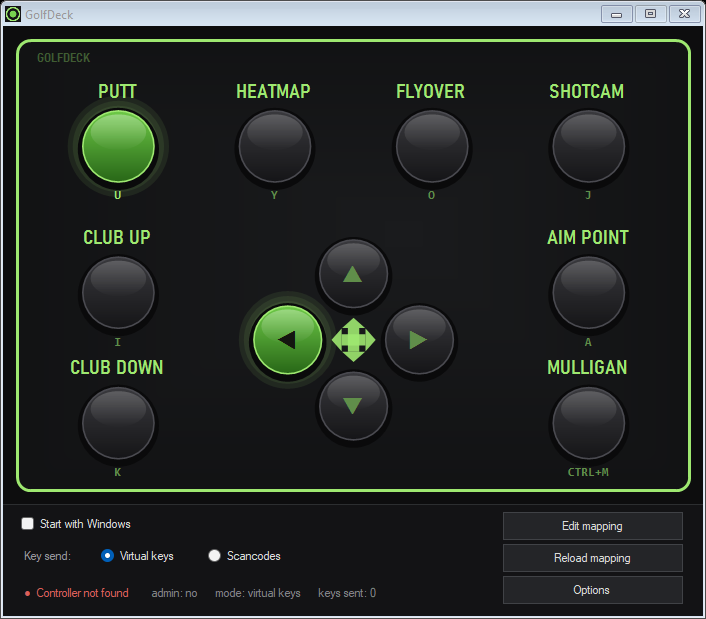
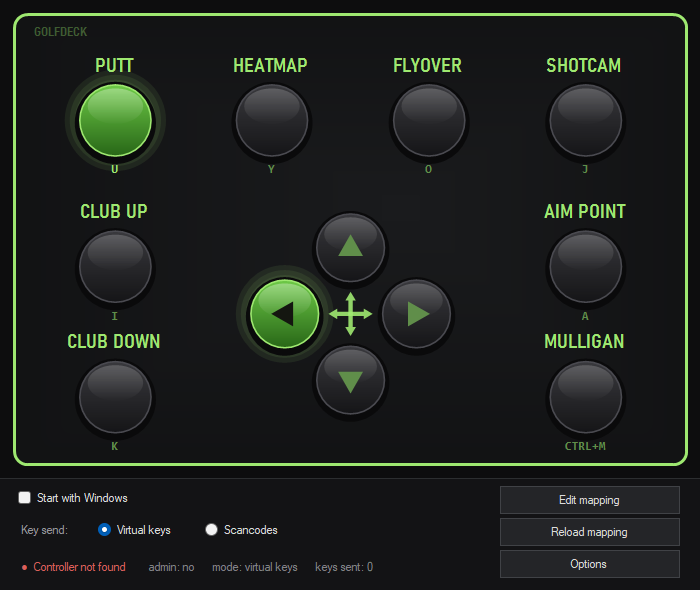
Ship bare exe releases, vector arrows and cross, chrome-less screenshots, SETUP.txt in repo

diff --git a/Program.cs b/Program.cs
@@ -600,9 +600,24 @@ LS_Right = Right | | hold
             var info = new UpdateInfo();
             info.Tag = JsonString(json, "tag_name");
             info.Body = JsonString(json, "body");
-            info.ZipUrl = JsonString(json, "browser_download_url");
+            info.ZipUrl = FindAssetUrl(json, "GolfDeck.exe");
+            if (info.ZipUrl == null) info.ZipUrl = FindAssetUrl(json, ".zip");
             if (info.Tag == null || info.ZipUrl == null) return null;
             return info;
+        }
+
+        // pick the release asset whose download url ends with the given suffix
+        static string FindAssetUrl(string json, string suffix)
+        {
+            int pos = 0;
+            while (true)
+            {
+                int i = json.IndexOf("\"browser_download_url\"", pos, StringComparison.Ordinal);
+                if (i < 0) return null;
+                string v = JsonString(json.Substring(i), "browser_download_url");
+                if (v != null && v.EndsWith(suffix, StringComparison.OrdinalIgnoreCase)) return v;
+                pos = i + 22;
+            }
         }
 
         public static bool IsNewer(string tag, string current)
@@ -657,21 +672,33 @@ LS_Right = Right | | hold
         {
             string temp = Path.Combine(Path.GetTempPath(), "GolfDeckUpdate");
             Directory.CreateDirectory(temp);
-            string zip = Path.Combine(temp, "GolfDeck.zip");
-            using (var wc = new WebClient())
-            {
-                wc.Headers.Add("User-Agent", "GolfDeck-updater");
-                wc.DownloadFile(info.ZipUrl, zip);
-            }
-            string extract = Path.Combine(temp, "extracted");
-            if (Directory.Exists(extract)) Directory.Delete(extract, true);
-            ZipFile.ExtractToDirectory(zip, extract);
-            string[] found = Directory.GetFiles(extract, "GolfDeck.exe", SearchOption.AllDirectories);
-            if (found.Length == 0) throw new Exception("GolfDeck.exe not found in the update package.");
-
             string cur = Application.ExecutablePath;
             string staged = cur + ".new";
-            File.Copy(found[0], staged, true);
+
+            if (info.ZipUrl.EndsWith(".exe", StringComparison.OrdinalIgnoreCase))
+            {
+                // bare exe asset: download straight to the staging path
+                using (var wc = new WebClient())
+                {
+                    wc.Headers.Add("User-Agent", "GolfDeck-updater");
+                    wc.DownloadFile(info.ZipUrl, staged);
+                }
+            }
+            else
+            {
+                string zip = Path.Combine(temp, "GolfDeck.zip");
+                using (var wc = new WebClient())
+                {
+                    wc.Headers.Add("User-Agent", "GolfDeck-updater");
+                    wc.DownloadFile(info.ZipUrl, zip);
+                }
+                string extract = Path.Combine(temp, "extracted");
+                if (Directory.Exists(extract)) Directory.Delete(extract, true);
+                ZipFile.ExtractToDirectory(zip, extract);
+                string[] found = Directory.GetFiles(extract, "GolfDeck.exe", SearchOption.AllDirectories);
+                if (found.Length == 0) throw new Exception("GolfDeck.exe not found in the update package.");
+                File.Copy(found[0], staged, true);
+            }
 
             string script = Path.Combine(temp, "apply-update.cmd");
             File.WriteAllText(script,
@@ -1120,15 +1147,11 @@ LS_Right = Right | | hold
                         g.DrawEllipse(pen, rect.X - 4, rect.Y - 4, rect.Width + 8, rect.Height + 8);
                 }
 
-                // arrow glyph
+                // arrow glyph (vector triangle, crisp at any size)
                 if (s.Arrow)
                 {
                     using (var br = new SolidBrush(pressed ? Theme.PressGlyph : Theme.Glyph))
-                    using (var f = new Font("Segoe UI Symbol", rr * 0.52f, FontStyle.Bold))
-                    {
-                        var sz = g.MeasureString(s.ArrowGlyph, f);
-                        g.DrawString(s.ArrowGlyph, f, br, x - sz.Width / 2f, y - sz.Height / 2f + 1);
-                    }
+                        DrawTriangle(g, x, y, rr * 0.40f, s.ArrowGlyph, br);
                 }
 
                 // label above (from the slot: physical board truth)
@@ -1198,21 +1221,33 @@ LS_Right = Right | | hold
             }
         }
 
+        // slim 4-way cross: four lines out of center with proper arrowheads
         static void DrawCross(Graphics g, float cx, float cy, float ext, Color c)
         {
-            using (var br = new SolidBrush(c))
+            using (var pen = new Pen(c, ext * 0.20f))
+            using (var cap = new AdjustableArrowCap(2.4f, 2.0f, true))
             {
-                float w = ext * 0.26f;    // shaft half-width
-                float head = ext * 0.46f; // arrowhead length
-                float hw = ext * 0.52f;   // arrowhead half-width
-                float shaft = ext - head;
-                g.FillRectangle(br, cx - w, cy - shaft, w * 2, shaft * 2);
-                g.FillRectangle(br, cx - shaft, cy - w, shaft * 2, w * 2);
-                g.FillPolygon(br, new PointF[] { new PointF(cx, cy - ext), new PointF(cx - hw, cy - shaft), new PointF(cx + hw, cy - shaft) });
-                g.FillPolygon(br, new PointF[] { new PointF(cx, cy + ext), new PointF(cx - hw, cy + shaft), new PointF(cx + hw, cy + shaft) });
-                g.FillPolygon(br, new PointF[] { new PointF(cx - ext, cy), new PointF(cx - shaft, cy - hw), new PointF(cx - shaft, cy + hw) });
-                g.FillPolygon(br, new PointF[] { new PointF(cx + ext, cy), new PointF(cx + shaft, cy - hw), new PointF(cx + shaft, cy + hw) });
+                pen.CustomEndCap = cap;
+                pen.StartCap = LineCap.Round;
+                g.DrawLine(pen, cx, cy, cx, cy - ext);
+                g.DrawLine(pen, cx, cy, cx, cy + ext);
+                g.DrawLine(pen, cx, cy, cx - ext, cy);
+                g.DrawLine(pen, cx, cy, cx + ext, cy);
             }
+        }
+
+        // solid directional triangle for the arrow buttons
+        static void DrawTriangle(Graphics g, float cx, float cy, float s, string dir, Brush br)
+        {
+            PointF[] pts;
+            float b = s * 0.92f;   // half base width
+            float a = s;           // apex distance
+            float k = s * 0.62f;   // base distance
+            if (dir == "▲") pts = new PointF[] { new PointF(cx, cy - a), new PointF(cx - b, cy + k), new PointF(cx + b, cy + k) };
+            else if (dir == "▼") pts = new PointF[] { new PointF(cx, cy + a), new PointF(cx - b, cy - k), new PointF(cx + b, cy - k) };
+            else if (dir == "◀") pts = new PointF[] { new PointF(cx - a, cy), new PointF(cx + k, cy - b), new PointF(cx + k, cy + b) };
+            else pts = new PointF[] { new PointF(cx + a, cy), new PointF(cx - k, cy - b), new PointF(cx - k, cy + b) };
+            g.FillPolygon(br, pts);
         }
 
         static GraphicsPath Rounded(Rectangle r, int rad)
@@ -1934,10 +1969,15 @@ LS_Right = Right | | hold
                 form.Show();
                 if (press != null) form.DemoPress(press);
                 Application.DoEvents();
-                using (var bmp = new Bitmap(form.Width, form.Height))
+                using (var full = new Bitmap(form.Width, form.Height))
                 {
-                    form.DrawToBitmap(bmp, new Rectangle(0, 0, form.Width, form.Height));
-                    bmp.Save(screenshot, System.Drawing.Imaging.ImageFormat.Png);
+                    form.DrawToBitmap(full, new Rectangle(0, 0, form.Width, form.Height));
+                    // crop to the client area: no window chrome in the capture
+                    Point co = form.PointToScreen(Point.Empty);
+                    var client = new Rectangle(co.X - form.Location.X, co.Y - form.Location.Y,
+                        form.ClientSize.Width, form.ClientSize.Height);
+                    using (var crop = full.Clone(client, full.PixelFormat))
+                        crop.Save(screenshot, System.Drawing.Imaging.ImageFormat.Png);
                 }
                 GC.KeepAlive(mutex);
                 return;

diff --git a/README.md b/README.md
@@ -2,7 +2,7 @@
 
 Companion app for 3D-printed GSPro control boxes built from Xbox controller internals. Reads the box through XInput and sends the matching GSPro keyboard shortcuts. Single portable exe, no install, no dependencies beyond stock Windows 10/11.
 
-**[Download the latest release](https://github.com/SenkoeUwU/golfdeck/releases/latest/download/GolfDeck.zip)**
+**[Download GolfDeck.exe](https://github.com/SenkoeUwU/golfdeck/releases/latest/download/GolfDeck.exe)** - single file, no install.
 
 ![V1 board](docs/board-v1.png)
 
@@ -21,13 +21,12 @@ Companion app for 3D-printed GSPro control boxes built from Xbox controller inte
 
 ## Install
 
-1. Download `GolfDeck.zip` from the link above.
-2. Right-click the zip, Properties, check **Unblock**, OK. Then extract anywhere (e.g. `C:\GolfDeck`).
-3. Run `GolfDeck.exe` and pick your board layout (V1 = PUTT top-left, V2 = SCORECARD top-left).
-4. Plug in the box. Press buttons and watch them light up.
-5. Optional: tick "Start with Windows".
+1. Download `GolfDeck.exe` from the link above and put it anywhere (e.g. `C:\GolfDeck`).
+2. Run it and pick your board layout (V1 = PUTT top-left, V2 = SCORECARD top-left). A `mapping.txt` with that layout's GSPro keys is created next to the exe.
+3. Plug in the box. Press buttons and watch them light up.
+4. Optional: tick "Start with Windows".
 
-Windows SmartScreen may warn about an unknown publisher the first time. The app is unsigned; click "More info", then "Run anyway". See SETUP.txt inside the zip for the full walkthrough.
+Windows SmartScreen may warn about an unknown publisher the first time. The app is unsigned; click "More info", then "Run anyway". See [SETUP.txt](SETUP.txt) for the full walkthrough.
 
 If GSPro runs as administrator, use the tray menu "Restart as administrator" once so keystrokes are not blocked.
 

diff --git a/CHANGELOG.md b/CHANGELOG.md
@@ -3,6 +3,8 @@
 ## v1.4
 
 - Built-in update checker against GitHub releases: prompts on launch with the new version and summarized release notes, downloads and swaps the exe in place on accept. Declining snoozes the prompt for 7 days; "Check for updates" in Options checks immediately.
+- Releases now ship a bare GolfDeck.exe (no zip); the updater downloads it directly.
+- Arrow buttons and the center cross redrawn as clean vector shapes.
 
 ## v1.3
 
